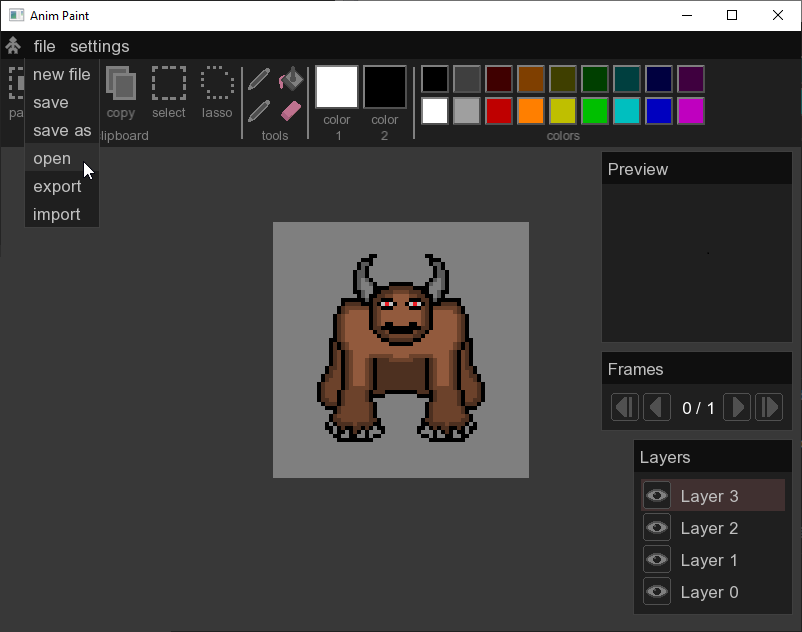
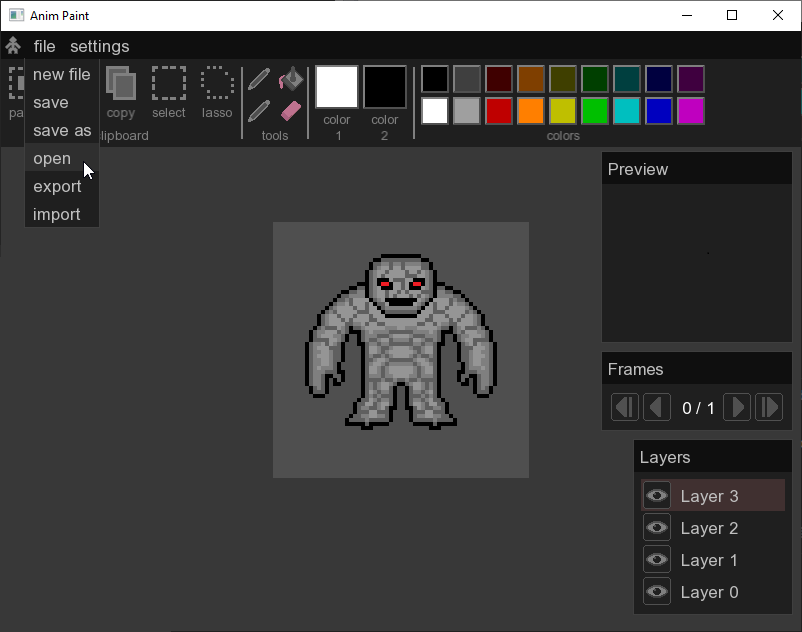
added main two colors

Changed region(s): [[0.3429, 0.3307, 0.6858, 0.7816]]

diff --git a/Anim-Paint/Canvas.hpp b/Anim-Paint/Canvas.hpp
@@ -158,11 +158,8 @@ public:
 
 
 				if (event.type == sf::Event::MouseButtonPressed && event.mouseButton.button == sf::Mouse::Left) {
-
-
-
 					if (tools->toolType == ToolType::Brush) {
-						drawPixels(tools->currentColor);
+						drawPixels(tools->first_color->color);
 					}
 					else if (tools->toolType == ToolType::Eraser) {
 						drawPixels(sf::Color::Transparent);
@@ -178,22 +175,30 @@ public:
 
 					}
 				}
-
+				else if (event.type == sf::Event::MouseButtonPressed && event.mouseButton.button == sf::Mouse::Right) {
+					if (tools->toolType == ToolType::Brush) {
+						drawPixels(tools->second_color->color);
+					}
+				}
+				else if (event.type == sf::Event::MouseButtonPressed && event.mouseButton.button == sf::Mouse::Middle) {
+					isMoved = true;
+					offset = bg_sprite.getPosition() - worldMousePosition;
+				}
 				else if (event.type == sf::Event::MouseMoved && sf::Mouse::isButtonPressed(sf::Mouse::Left)) {
 
 					if (tools->toolType == ToolType::Brush) {
-						drawPixels(tools->currentColor);
+						drawPixels(tools->first_color->color);
 					}
 					else if (tools->toolType == ToolType::Eraser) {
 						drawPixels(sf::Color::Transparent);
 					}
 				}
+				else if (event.type == sf::Event::MouseMoved && sf::Mouse::isButtonPressed(sf::Mouse::Right)) {
 
-				else if (event.type == sf::Event::MouseButtonPressed && event.mouseButton.button == sf::Mouse::Middle) {
-					isMoved = true;
-					offset = bg_sprite.getPosition() - worldMousePosition;
+					if (tools->toolType == ToolType::Brush) {
+						drawPixels(tools->second_color->color);
+					}
 				}
-
 				else if (event.type == sf::Event::MouseButtonReleased && event.mouseButton.button == sf::Mouse::Middle) {
 					isMoved = false;
 				}

diff --git a/Anim-Paint/Tools.hpp b/Anim-Paint/Tools.hpp
@@ -118,8 +118,6 @@ public:
 	sf::Text colors_text;
 	std::vector < ColorButton* > colors;
 
-	sf::Color currentColor = sf::Color(0, 0, 0);
-
 	ToolType toolType;
 
 	Tools() : ElementGUI() {
@@ -211,12 +209,10 @@ public:
 
 		first_color->onclick_func = [this]() {
 			this->active_color = first_color;
-			this->currentColor = first_color->color;
 			};
 
 		second_color->onclick_func = [this]() {
 			this->active_color = second_color;
-			this->currentColor = second_color->color;
 			};
 
 		separators.push_back(new Separator());
@@ -264,7 +260,6 @@ public:
 		for (auto& c : colors) {
 			c->onclick_func = [this, c]() {
 				this->active_color->setColor(c->color);
-				this->currentColor = active_color->color;
 				};
 		}
 
